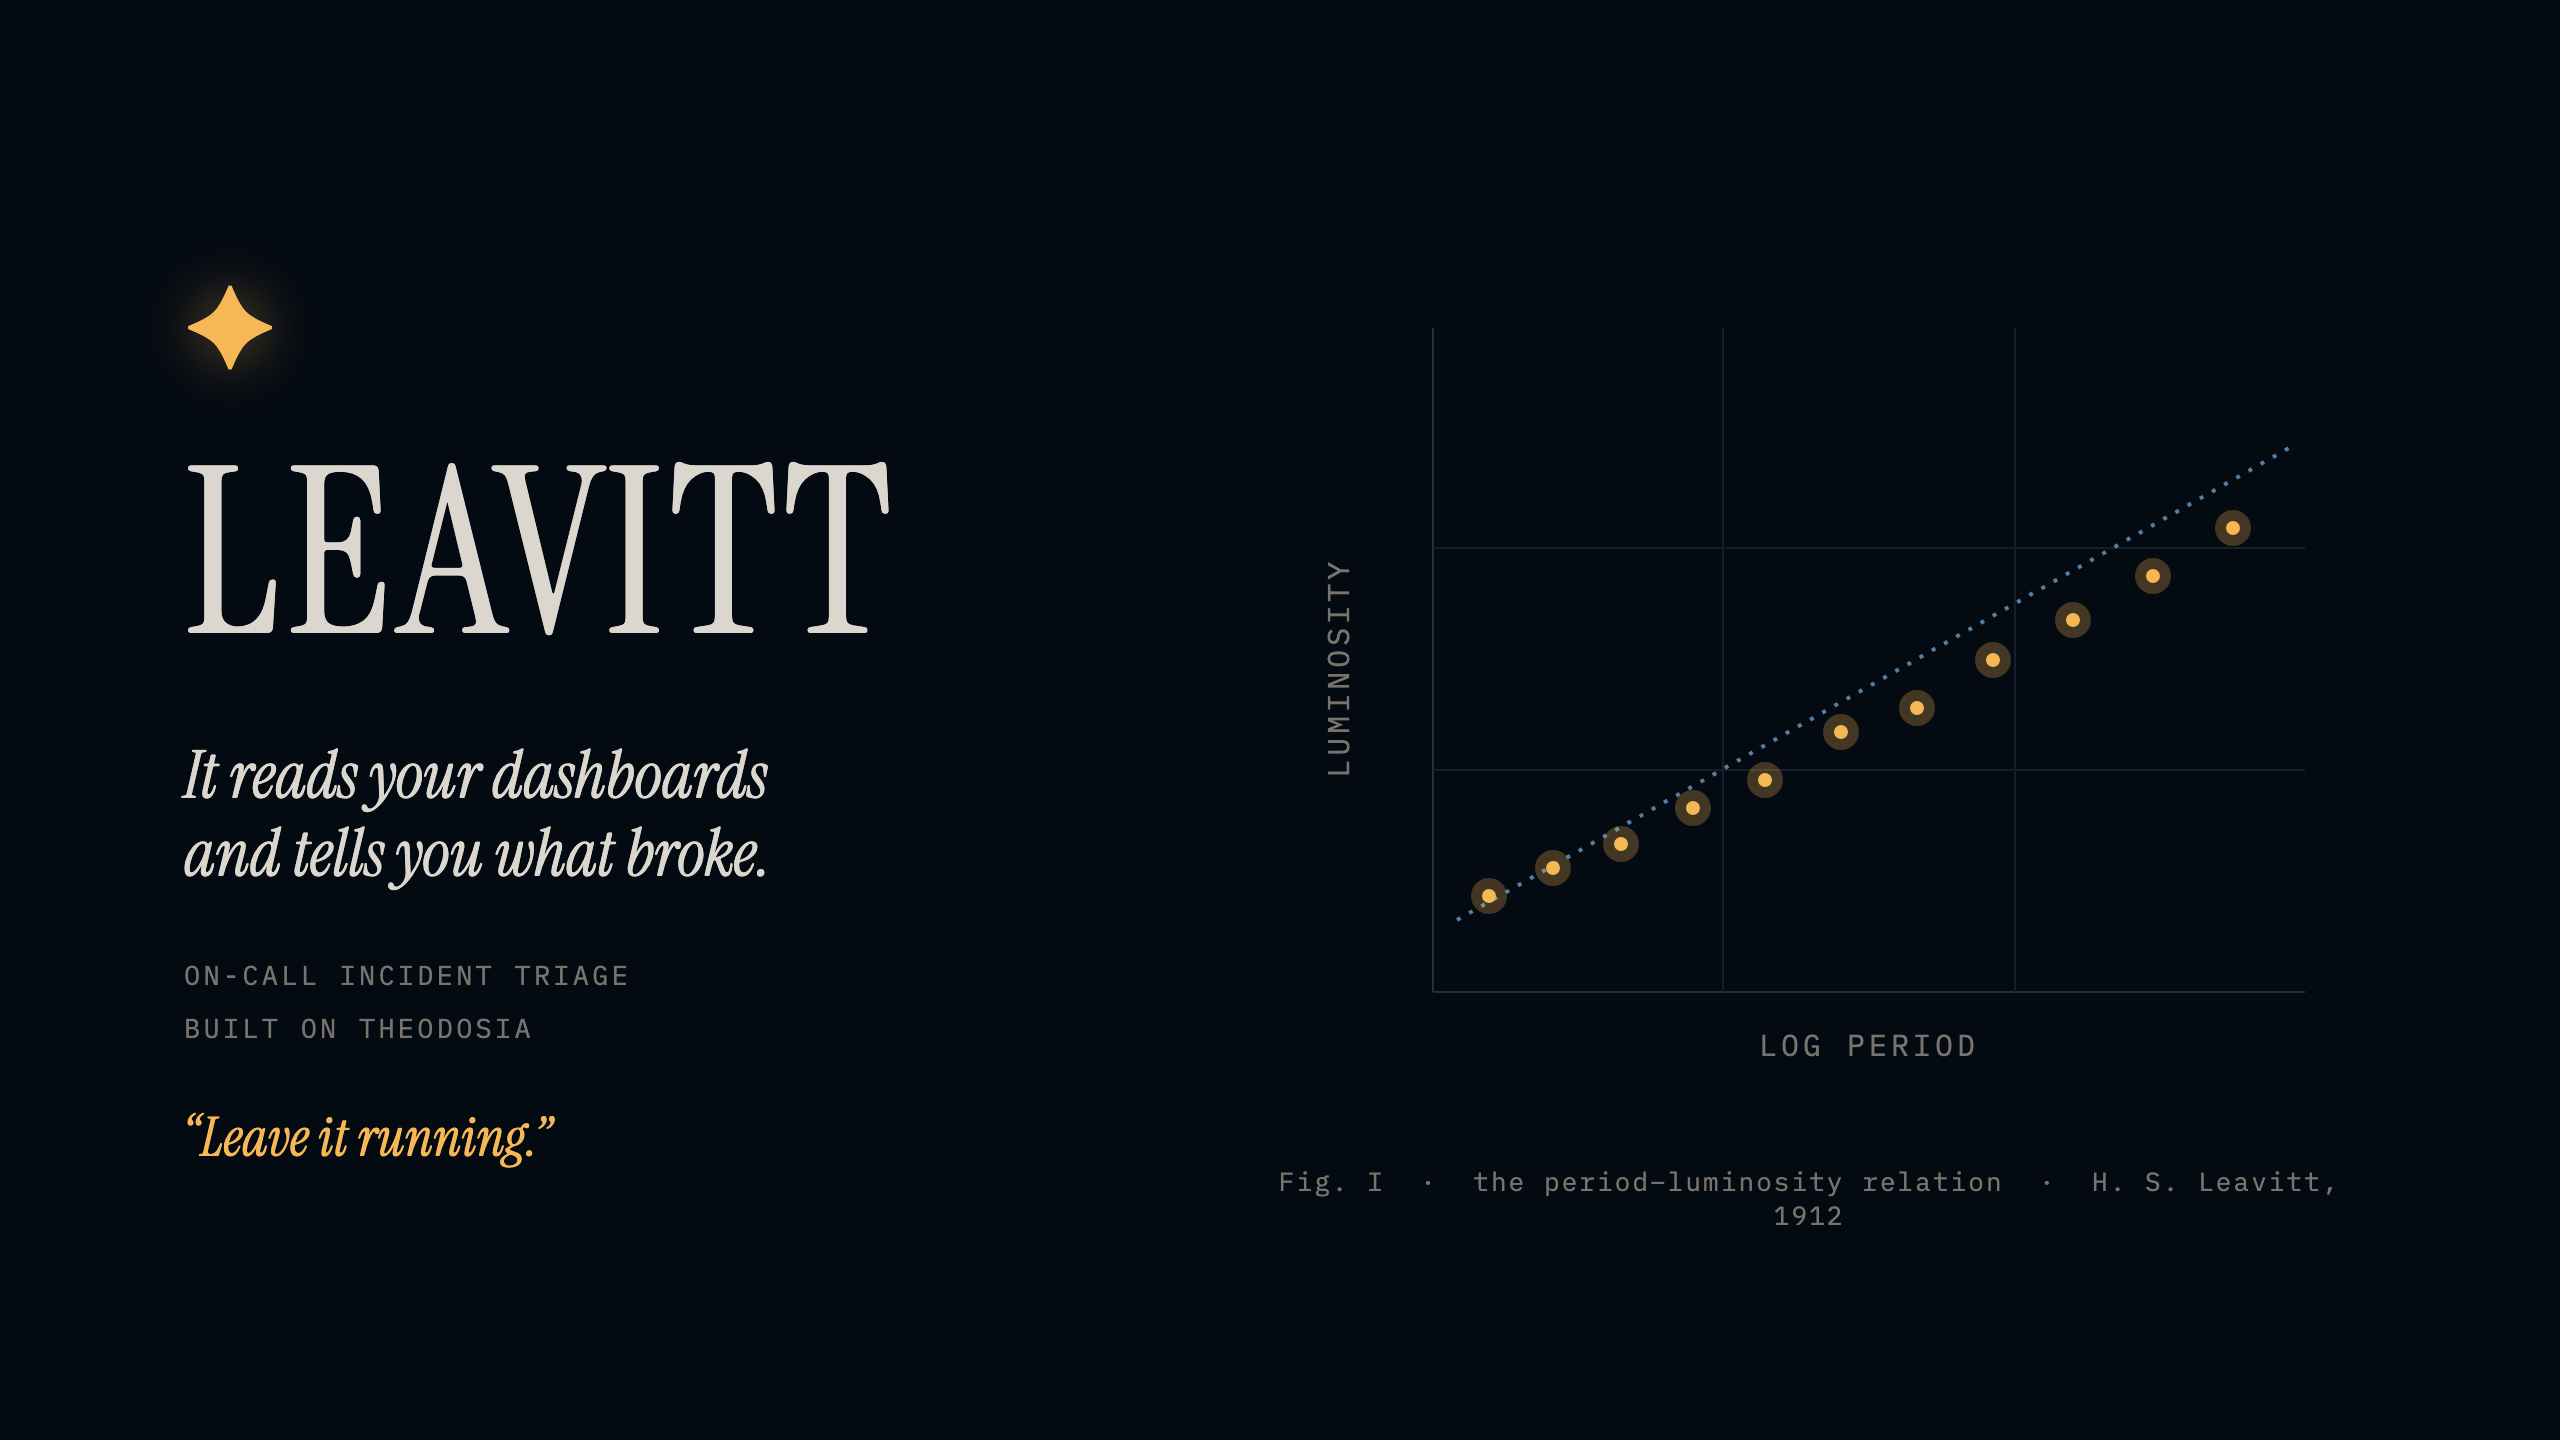
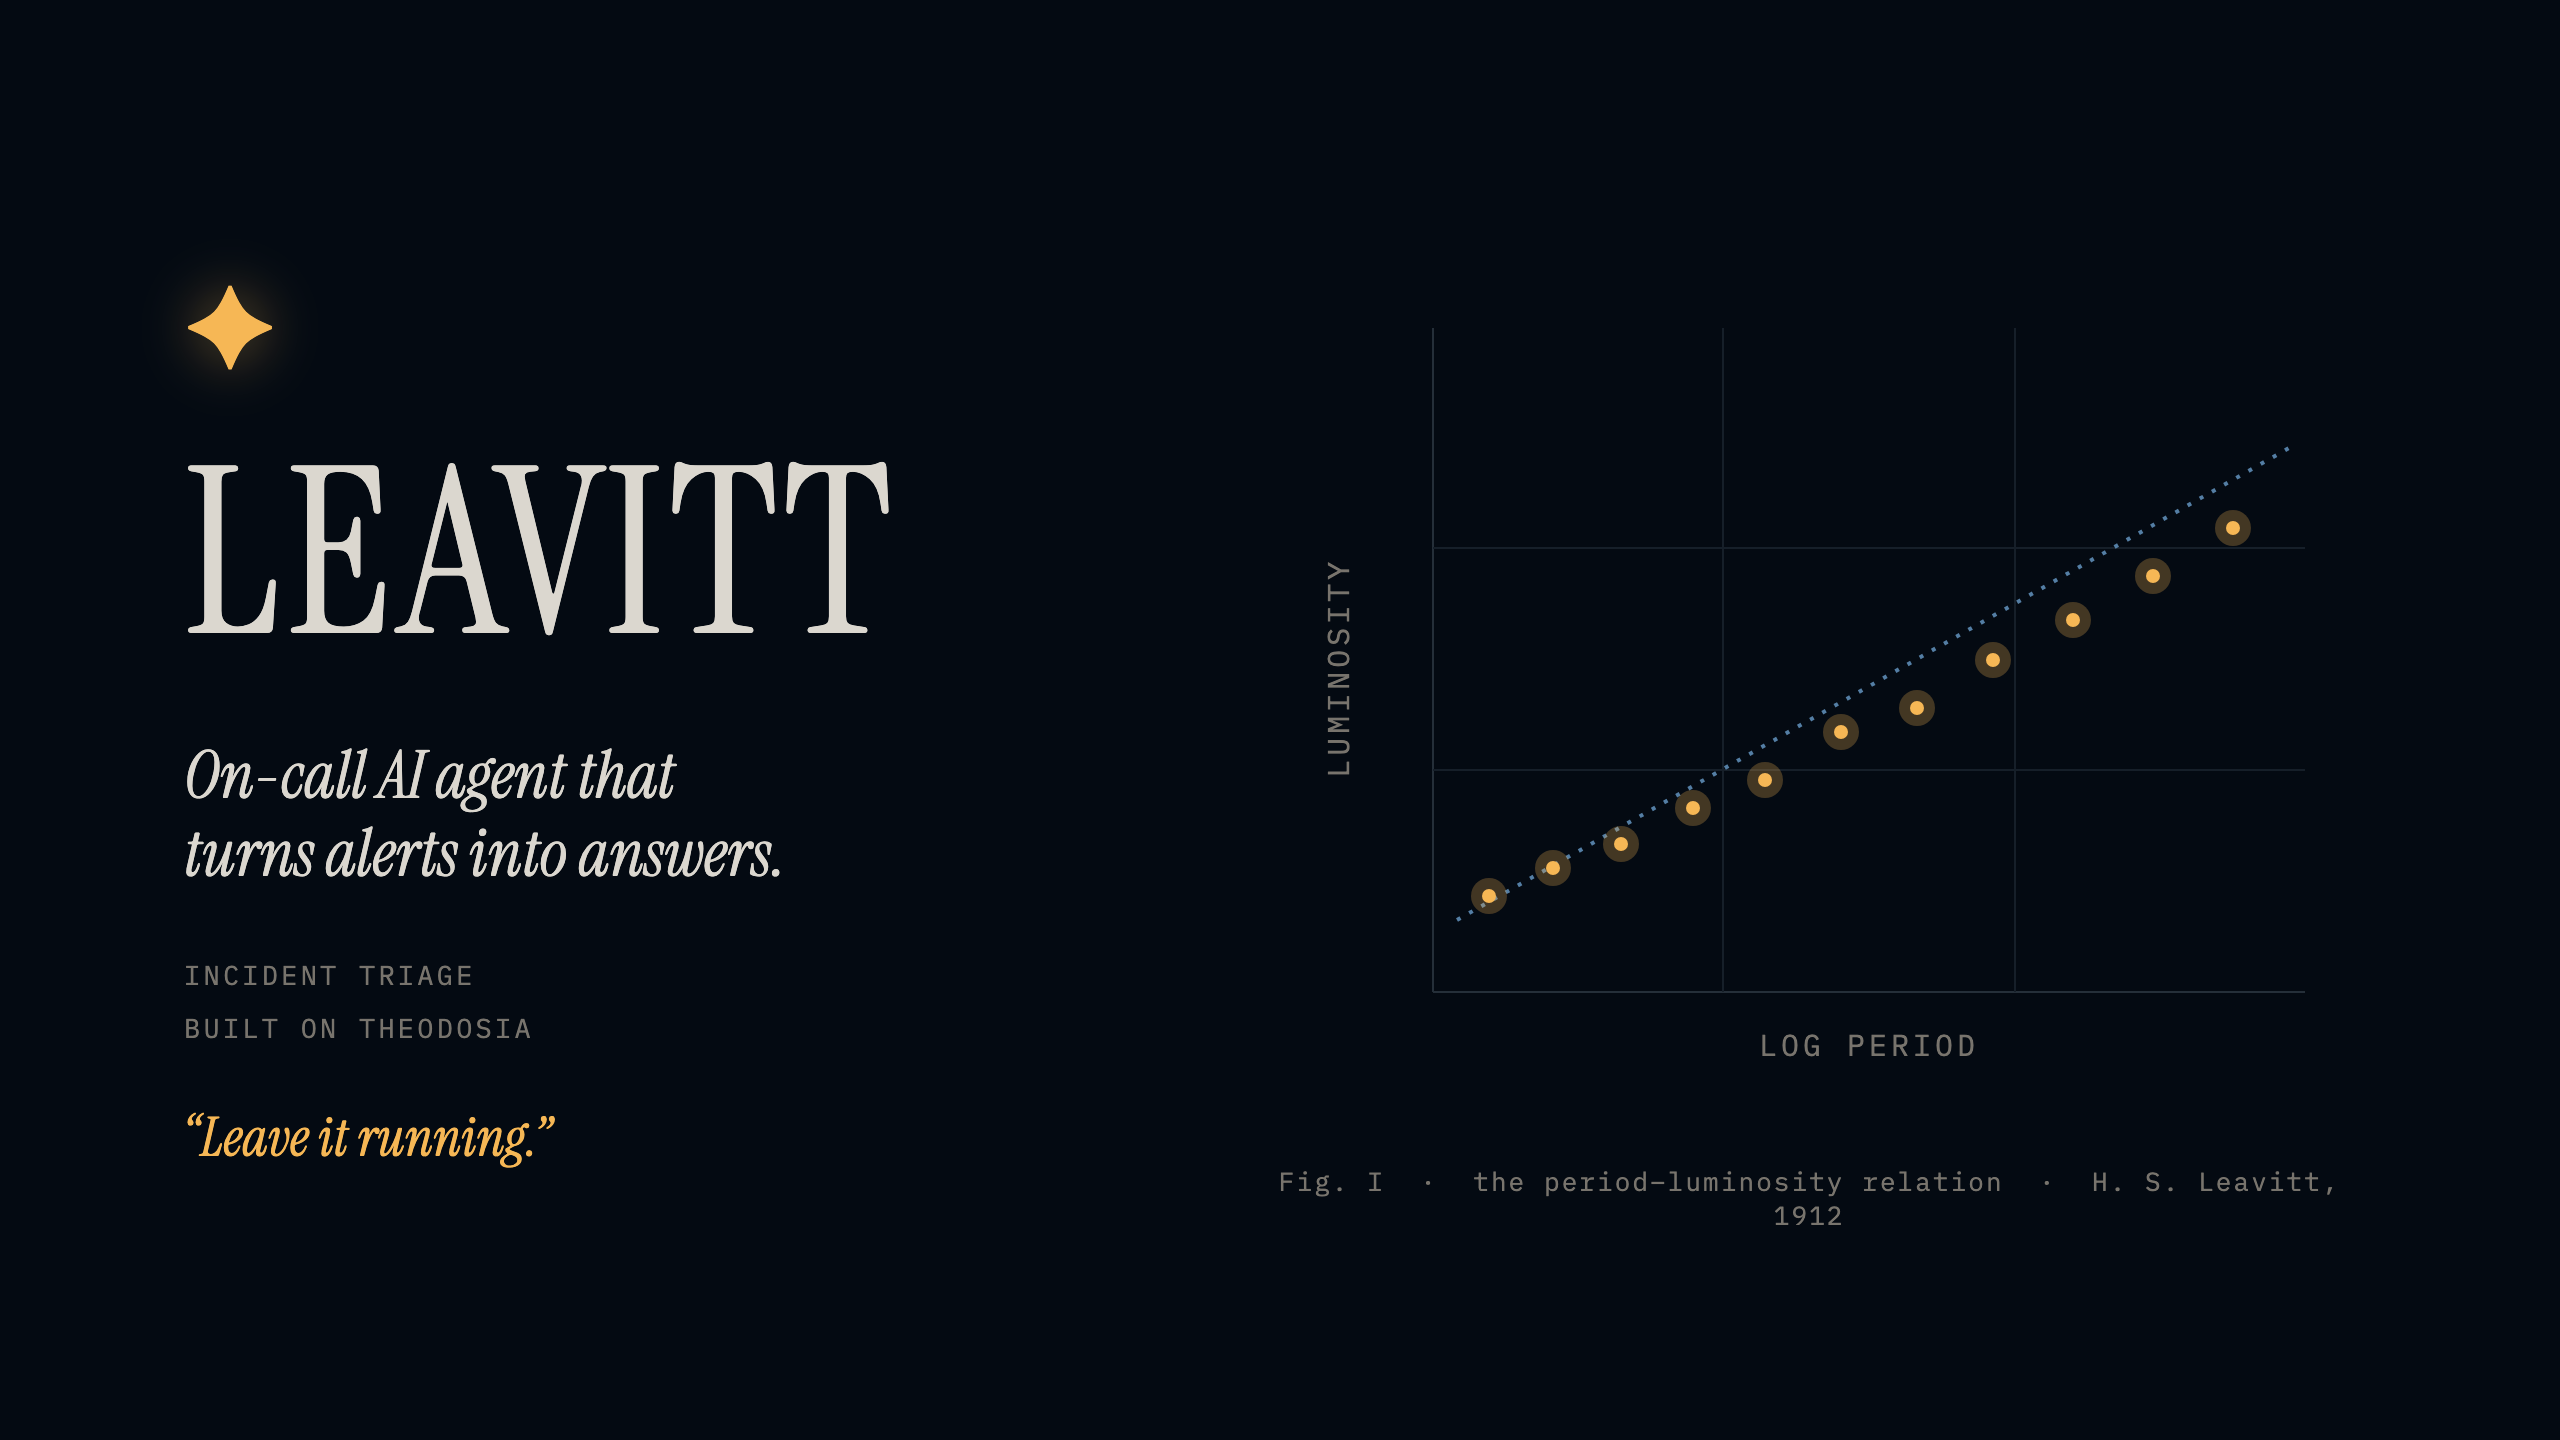
Lock the tagline: On-call AI agent that turns alerts into answers
Drop "autonomous" (on-call already implies it) and swap the clinical "diagnoses
production incidents" for "turns alerts into answers", which is punchier, sidesteps
the "resolution" claim every AI-SRE tool makes (Leavitt answers, it does not act),
and keeps the gallery keywords. Applied to the masthead, thumbnail, slide 1, the
README, and the Devpost title and elevator pitch; re-rendered the assets and demo
video.

Changed region(s): [[0.0625, 0.5, 0.3125, 0.625], [0.0938, 0.6562, 0.1875, 0.6875], [0.2188, 0.6562, 0.25, 0.6875]]

diff --git a/demo/thumbnail.html b/demo/thumbnail.html
@@ -23,8 +23,8 @@ h1 { font-family:"Instrument Serif",serif; font-weight:400; font-size:116px; mar
   <div class="left">
     <div class="bigstar">&#10022;</div>
     <h1>LEAVITT</h1>
-    <div class="tag">It reads your dashboards<br>and tells you what broke.</div>
-    <div class="cat">On-call incident triage<br>built on Theodosia</div>
+    <div class="tag">On-call AI agent that<br>turns alerts into answers.</div>
+    <div class="cat">Incident triage<br>built on Theodosia</div>
     <div class="run">&ldquo;Leave it running.&rdquo;</div>
   </div>
   <div class="right">

diff --git a/demo/banner.py b/demo/banner.py
@@ -41,12 +41,12 @@ def frame(star_color: str) -> Group:
         Text(""),
         Align.center(Text("L E A V I T T", style=f"bold {TEXT}")),
         Align.center(
-            Text("it reads your dashboards and tells you what broke", style=DIM)
+            Text("on-call AI agent that turns alerts into answers", style=DIM)
         ),
         Text(""),
         Align.center(
             Text.assemble(
-                ("on-call incident triage · built on Theodosia", DIM),
+                ("incident triage · built on Theodosia", DIM),
                 ("      ", DIM),
                 ("“Leave it running.”", f"italic {STAR}"),
             )

diff --git a/demo/devpost_submission.md b/demo/devpost_submission.md
@@ -1,11 +1,11 @@
 # Leavitt
 
-**Title:** Leavitt: it reads your dashboards and tells you what broke.
+**Title:** Leavitt: an on-call AI agent that turns alerts into answers.
 
-**Tagline / elevator pitch:** Leavitt is an on-call incident-triage agent. It
-reads every signal you have, metrics, logs, client-side load, and deployment
-changes, correlates them, and tells you what broke and why, staying honest about
-how sure it is. Safe to leave running on production.
+**Tagline / elevator pitch:** Leavitt is an on-call AI agent that turns alerts into answers. It reads every
+observability signal you have, metrics, logs, client-side load, and deployment
+changes, correlates them, and pinpoints the root cause, staying honest about how
+sure it is. Safe to leave running on production.
 
 ---
 

diff --git a/demo/slides.md b/demo/slides.md
@@ -43,9 +43,9 @@ hr { border: 0; border-top: 1px solid var(--hair); margin: 26px 0; }
 
 # LEAVITT
 
-<h2 style="font-size:38px; margin-top:24px;">It reads your dashboards and tells you what broke.</h2>
+<h2 style="font-size:38px; margin-top:24px;">On-call AI agent that turns alerts into answers.</h2>
 
-<p class="cat">On-call incident triage &nbsp;·&nbsp; built on Theodosia</p>
+<p class="cat">Incident triage &nbsp;·&nbsp; built on Theodosia</p>
 
 <p class="colophon cat">
 Adam Munawar Rahman &nbsp;·&nbsp; SWE @ IBM &nbsp;·&nbsp; M.S. Computer Engineering, NYU Tandon<br>

diff --git a/README.md b/README.md
@@ -1,5 +1,5 @@
 <p align="center">
-  <img src="demo/media/leavitt-masthead.gif" alt="Leavitt, an agent that reads your dashboards and tells you what broke" width="820">
+  <img src="demo/media/leavitt-masthead.gif" alt="Leavitt, an on-call AI agent that turns alerts into answers" width="820">
 </p>
 
 # Leavitt